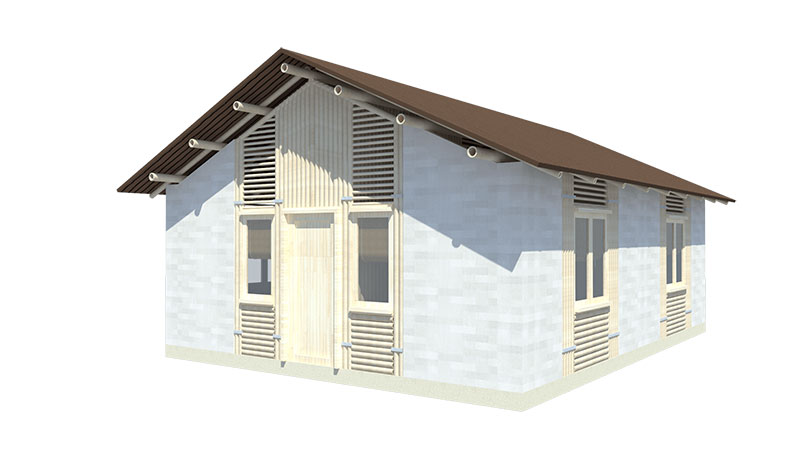
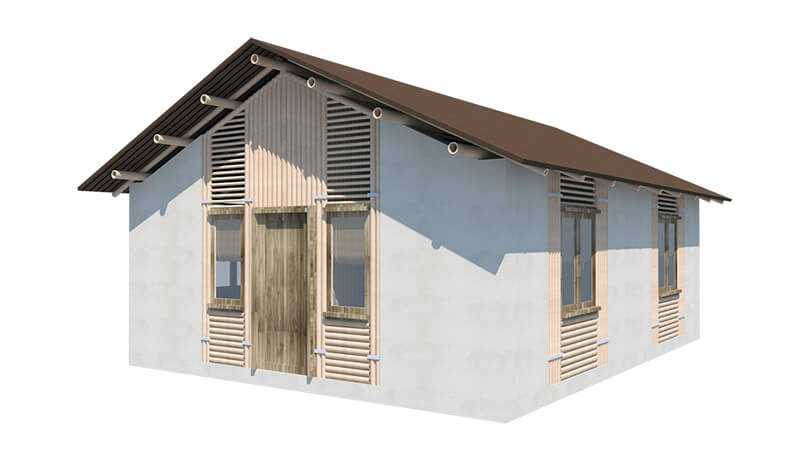
Update bamboo house imagery

diff --git a/bamboo-house.html b/bamboo-house.html
@@ -91,7 +91,10 @@
           </div>
 
           <div class="row push-down">
-            <img src="img/bamboo-house/exterior-simple-small.jpg" class="col-md-12 img-thumbnail img-responsive"/>
+            <img src="img/bamboo-house/diagram.jpg" class="col-md-12 img-thumbnail img-responsive"/>
+          </div>
+          <div class="row">
+            <img src="img/bamboo-house/exterior-simple.jpg" class="col-md-12 img-thumbnail img-responsive"/>
           </div>
 
           <div class="row push-down">
@@ -103,15 +106,20 @@
           </div>
 
           <div class="row push-down">
-            <div class="col-lg-12 text-center">
-            <iframe width="100%" height="500" src="https://www.youtube.com/embed/LNvSClQS-yw" frameborder="0" allowfullscreen syle="pading-top:4em;"></iframe>
+            <div class="thumbnail container">
+              <a href="img/bamboo-house/flow.png">
+                <img src="img/bamboo-house/flow.png" class="col-md-6 img-responsive"/>
+              </a>
+              <div class="col-md-6">
+                <iframe width="100%" height="400" src="https://www.youtube.com/embed/LNvSClQS-yw" frameborder="0" allowfullscreen syle="pading-top:4em;"></iframe>
+              </div>
             </div>
           </div>
 
           <div class="row push-down">
             <div class="col-lg-12 text-center">
               <p class='lead'>
-                As you can see from the video, staying in a house like this during a tsunami is most likely unsafe. Therefore residents should evacuate to higher ground or dedicted tsunami evacuation centers.
+                As you can see above, staying in a house like this during a tsunami is most likely unsafe. Therefore residents should evacuate to higher ground or dedicted tsunami evacuation centers.
               </p>
               <p class='lead'>
                 A tsunami is a very destructive event effects of witch can last for years. This house design, however, allows to reconstruct the house after a tsunami quickly and at a low cost, using localy available bamboo. This means that residents can return to their homes sooner.

diff --git a/tsunami-resistant-building-design-manual.html b/tsunami-resistant-building-design-manual.html
@@ -554,11 +554,11 @@
 
         <div class="row">
           <div class="thumbnail container">
-            <a href="img/bamboo-house/exterior-simple-small.jpg">
-              <img src="img/bamboo-house/exterior-simple-small.jpg" class="col-md-6"/>
+            <a href="img/bamboo-house/diagram.jpg">
+              <img src="img/bamboo-house/diagram.jpg" class="col-md-6"/>
             </a>
             <div class="col-md-6">
-              <iframe width="100%" height="315" src="https://www.youtube.com/embed/LNvSClQS-yw" frameborder="0" allowfullscreen syle="pading-top:4em;"></iframe>
+              <iframe width="100%" height="315" src="https://www.youtube.com/embed/LNvSClQS-yw" frameborder="0" allowfullscreen class="push-down"></iframe>
             </div>
             <div class="col-md-12">
               <p class="caption">
